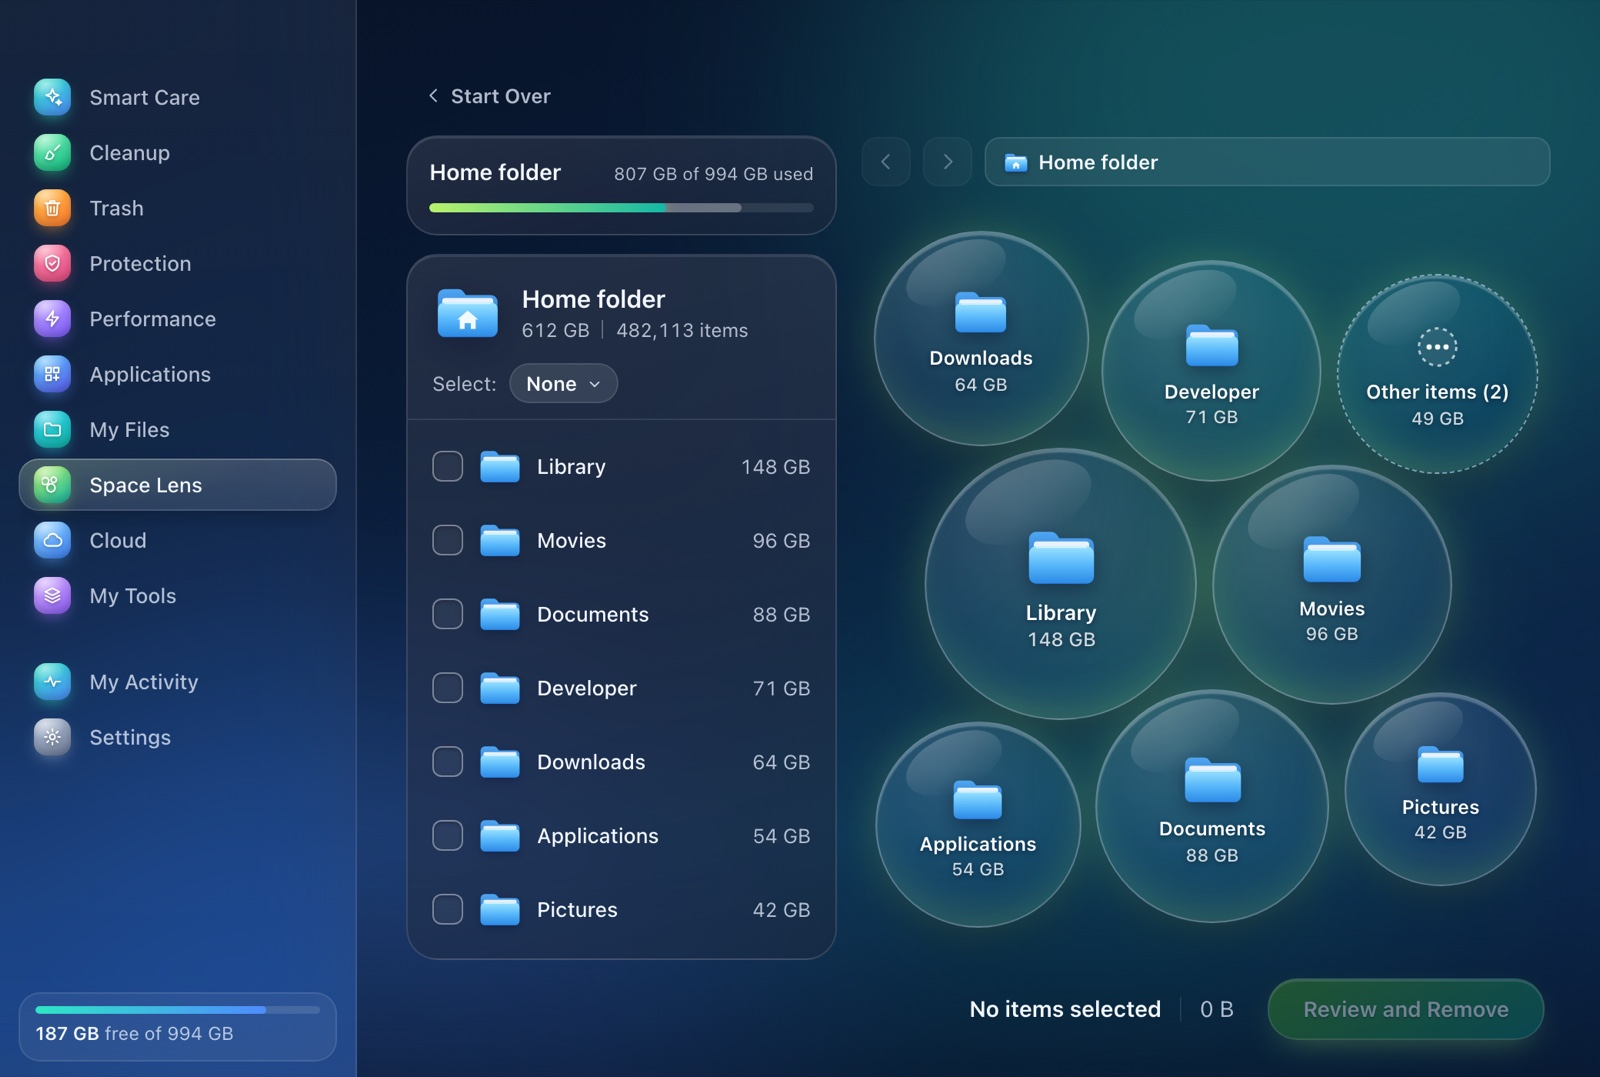
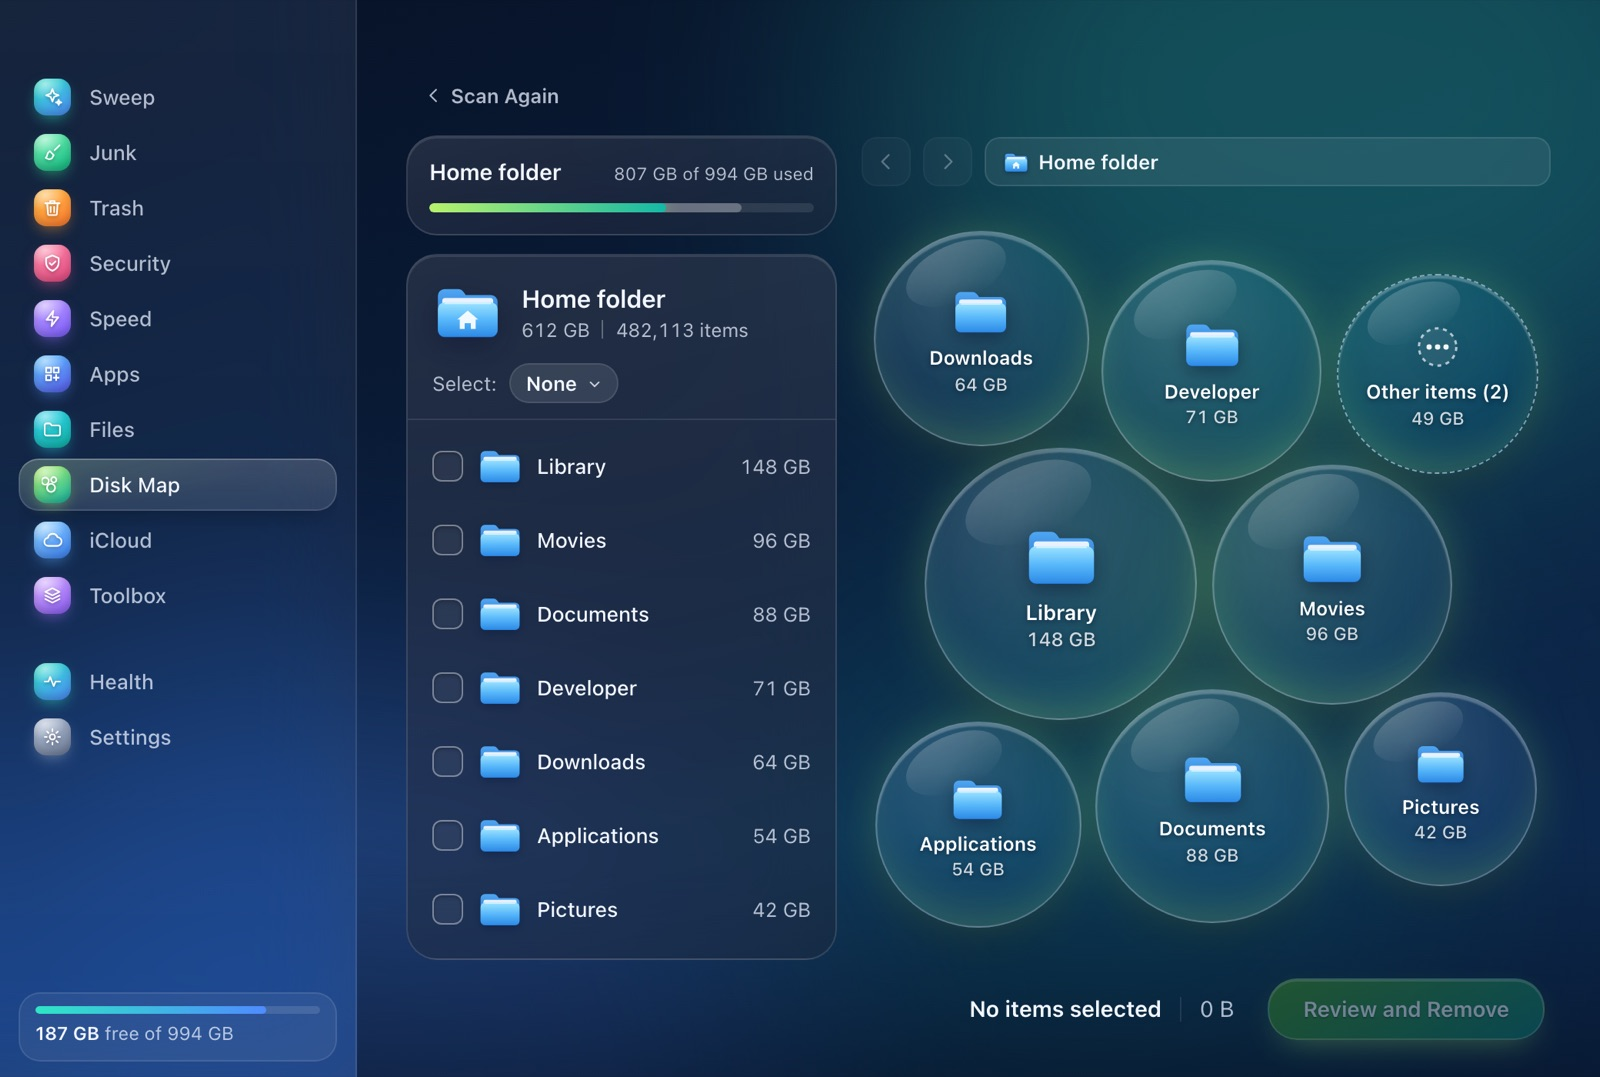
docs: README and screenshots with the new module names and the Unlicense

diff --git a/README.md b/README.md
@@ -12,7 +12,7 @@ Native Rust engine, system WebKit, a hand-built interface. About 7 MB on disk.
 ![Tauri 2](https://img.shields.io/badge/Tauri-2-24c8db?style=flat-square&logo=tauri&logoColor=white)
 ![UI](https://img.shields.io/badge/UI-vanilla%20JS-f7df1e?style=flat-square&logo=javascript&logoColor=black)
 ![Languages](https://img.shields.io/badge/languages-EN%20%C2%B7%20PT--BR%20%C2%B7%20ID-4c6ef5?style=flat-square)
-![License](https://img.shields.io/badge/license-MIT-2f9e44?style=flat-square)
+![License](https://img.shields.io/badge/license-Unlicense-2f9e44?style=flat-square)
 
 </div>
 
@@ -25,7 +25,7 @@ No antivirus and no telemetry. Limpae makes no network requests of its own; ever
 <div align="center">
 
 <img src="docs/screenshots/smart.jpg" width="49%" alt="Sweep results"> <img src="docs/screenshots/lens.jpg" width="49%" alt="Disk Map bubble map">
-<img src="docs/screenshots/apps.jpg" width="49%" alt="Application manager"> <img src="docs/screenshots/protect.jpg" width="49%" alt="Protection">
+<img src="docs/screenshots/apps.jpg" width="49%" alt="App manager"> <img src="docs/screenshots/protect.jpg" width="49%" alt="Security">
 
 <sub>Screenshots use sample data.</sub>
 
@@ -37,11 +37,11 @@ No antivirus and no telemetry. Limpae makes no network requests of its own; ever
 
 - **Sweep.** One scan across six modules, one pre-selected review, one button. Only safe junk is pre-selected; your own files never are.
 - **Disk Map.** An interactive bubble map of what is using your disk, with Finder-style navigation, Quick Look and reveal-in-Finder.
-- **Cleanup.** User caches and logs, Xcode and package-manager caches, AI tool leftovers, broken preferences and login items, iOS backups, Mail attachments, and Trash bins on external volumes.
-- **Application manager.** Uninstall apps together with the leftovers in `~/Library`, find orphaned leftovers, installers, unused apps and available updates.
-- **My Files.** Large and old files, exact duplicates, similar images (best copy pre-marked) and a per-app view of Downloads.
-- **Protection, without an antivirus.** Security posture checks (Gatekeeper, SIP, FileVault, firewall, XProtect age, updates), app permissions you can review and revoke, and privacy traces.
-- **Performance.** Background agents and login items with code-signature checks, a live system monitor and Time Machine snapshot thinning.
+- **Junk.** User caches and logs, Xcode and package-manager caches, AI tool leftovers, broken preferences and login items, iOS backups, Mail attachments, and Trash bins on external volumes.
+- **App manager.** Uninstall apps together with the leftovers in `~/Library`, find orphaned leftovers, installers, unused apps and available updates.
+- **Files.** Large and old files, exact duplicates, similar images (best copy pre-marked) and a per-app view of Downloads.
+- **Security, without an antivirus.** Security posture checks (Gatekeeper, SIP, FileVault, firewall, XProtect age, updates), app permissions you can review and revoke, and privacy traces.
+- **Speed.** Background agents and login items with code-signature checks, a live system monitor and Time Machine snapshot thinning.
 - **Menu bar extra.** Health, free space, memory pressure and Trash size at a glance, as a native menu that costs nothing while closed.
 - **Calm by default.** Elegant motion that pauses when the window is idle, glass-like synthesized sounds (no audio files) and Esc / ⌘[ to go back.
 - **Three languages.** English (default), Brazilian Portuguese and Bahasa Indonesia, switchable in Settings.
@@ -50,15 +50,15 @@ No antivirus and no telemetry. Limpae makes no network requests of its own; ever
 
 | Module | What it does |
 | --- | --- |
-| **Sweep** | Scans Cleanup, Trash, Protection, Performance, Applications and My Files in one pass and removes the pre-selected junk. |
-| **Cleanup** | System and app junk, grouped and sized, with per-item review. |
+| **Sweep** | Scans Junk, Trash, Security, Speed, Apps and Files in one pass and removes the pre-selected junk. |
+| **Junk** | System and app junk, grouped and sized, with per-item review. |
 | **Trash** | Shows what is in every Trash (including external volumes) and empties it with confirmation. |
-| **Protection** | Security posture, app permissions (TCC) and privacy traces. Read-only checks; fixes open the right Settings pane. |
-| **Performance** | Background agents, login items, live monitor, snapshots. |
-| **Applications** | Uninstaller, updater, leftovers, installers, vendor view. |
-| **My Files** | Large and old files, duplicates, similar images, Downloads. |
-| **Disk Map** | Visual disk map. |
-| **Cloud** | Evict local copies of files that are already in iCloud. |
+| **Security** | Security posture, app permissions (TCC) and privacy traces. Read-only checks; fixes open the right Settings pane. |
+| **Speed** | Background agents, login items, live monitor, snapshots. |
+| **Apps** | Uninstaller, updater, leftovers, installers, vendor view. |
+| **Files** | Large and old files, duplicates, similar images, Downloads. |
+| **Disk Map** | Visual map of what uses your disk. |
+| **iCloud** | Evict local copies of files that are already in iCloud. |
 | **Toolbox** | Every tool in one place, with favorites and a screen cleaning mode. |
 | **Health** | Mac health score with recommendations. |
 
@@ -81,7 +81,7 @@ Deleting files is the dangerous part of a cleaner, so the engine is conservative
 - Language and universal-binary stripping, because it breaks code signatures.
 - System caches, because they need root.
 - "Antimalware" without a signature database.
-- `~/Library/Containers` in Cleanup, because it triggers privacy alerts.
+- `~/Library/Containers` in Junk, because it triggers privacy alerts.
 
 ## Install
 
@@ -158,4 +158,4 @@ The `ui/` folder is served as is, so UI changes need no build step; reload the w
 
 Branding, artwork and sounds are original to Limpae.
 
-Released under the MIT license.
+Released into the public domain under [The Unlicense](LICENSE): use, copy, modify and redistribute it for any purpose, with or without credit.
